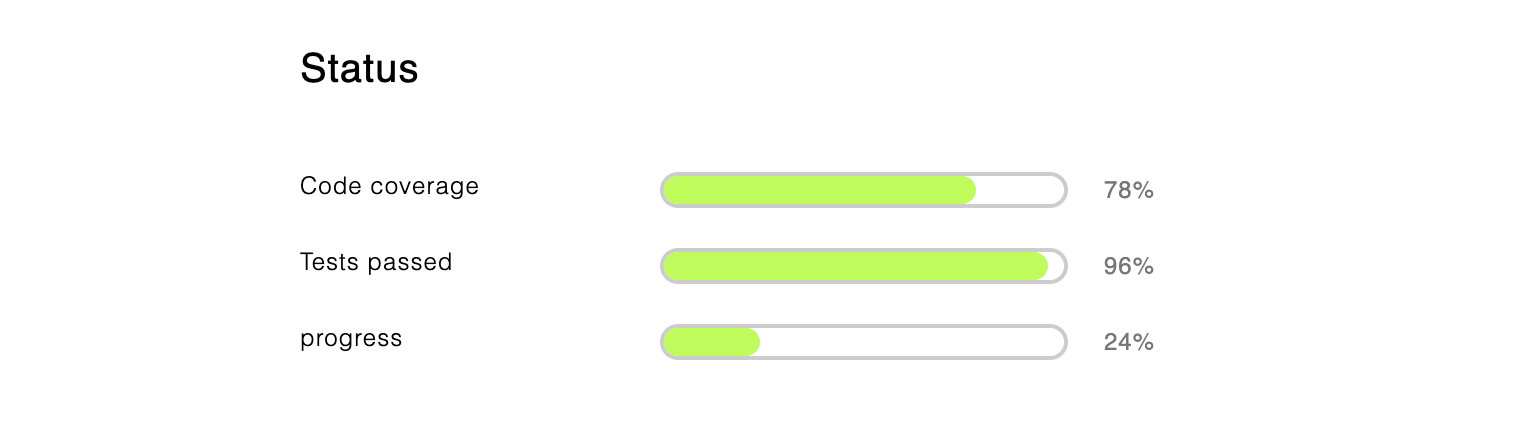
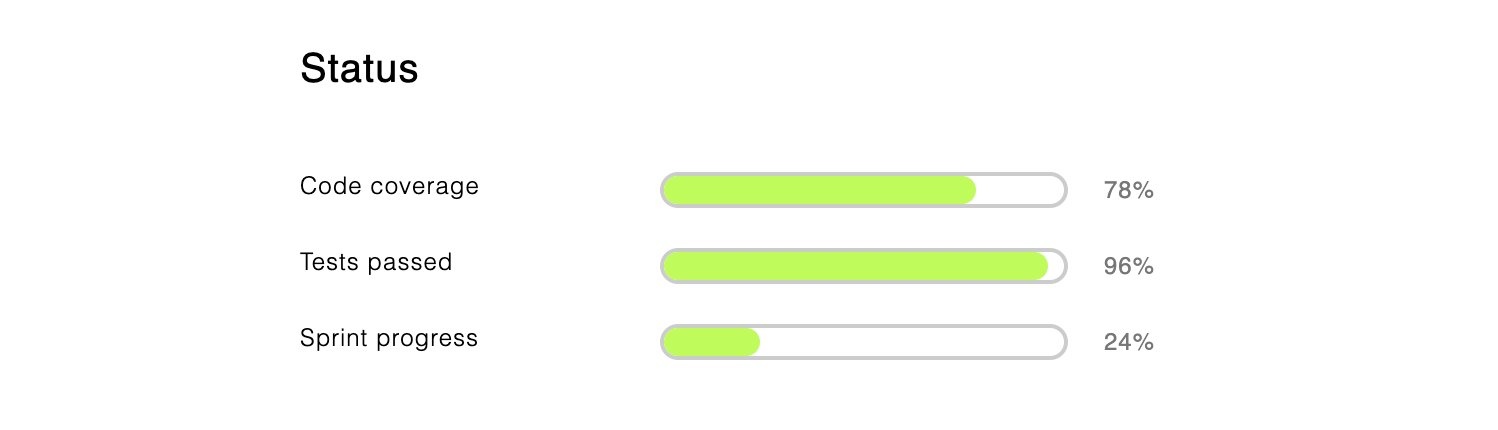
Docs update

diff --git a/demo.html b/demo.html
@@ -1,18 +1,9 @@
 <script src="https://raw.githack.com/zdanowiczkonrad/status-markdown/master/status.js"></script>
 
-Development
+Status
 
-Transaction module refactoring [2/5] 
-Enforce 2FA for external users [27%]
-Catch-up about documentation []
-Broken orders review [3/4]
+Code coverage [78%] 
+Tests passed [96%]
+Sprint progress [24%]
 
-Process
-
-Code coverage [72%]
-Christmas break planning [x]
-
-Links
-
-Board https://google.com?s=board
 

diff --git a/readme.md b/readme.md
@@ -1,6 +1,16 @@
 # Minimalistic and zero-code status pages
 
-Beautiful status page with just text.
+Turn text:
+
+```
+Status
+
+Code coverage [78%] 
+Tests passed [96%]
+Sprint progress [24%]
+```
+
+Into beautiful dashboard.
 
 ![Screenshot](static/status_lead_nopad.png)
 
